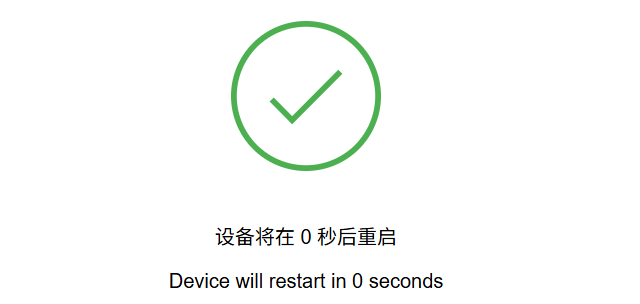
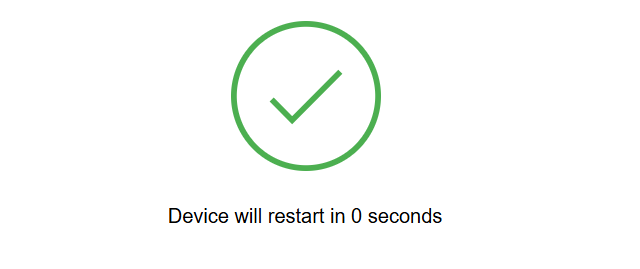
内容修改

diff --git a/source/docs/3_Creative_Builds.md b/source/docs/3_Creative_Builds.md
@@ -15,18 +15,11 @@ This Color Scanner features both color sensing and visual display capabilities. 
 
 ### 3.1.3 Assembly Guide
 
-<iframe
-  src="../_static/pdf/01-smart-light-assembly-guide.pdf#view=FitH"
-  title="Assembly Guide PDF"
-  width="100%"
-  height="850"
-  style="border: 1px solid #ddd;"
-  loading="lazy">
-</iframe>
+
 
 ### 3.1.4 Mode Switching
 
-This build requires the **offline vision function**. Skip this step and proceed directly to the wiring guide if the offline vision mode is already active. Otherwise, refer to the [4.5.1 Firmware Update]() section in Chapter 4 to re-flash the corresponding firmware.
+This build requires the **offline vision function**. Skip this step and proceed directly to the wiring guide if the offline vision mode is already active. Otherwise, refer to the [4.5.1 Firmware Update](https://wiki.hiwonder.com/projects/DaDablock-AI/en/starter-kit/docs/4_Software_and_Hardware_Guide.html#id17) section in Chapter 4 to re-flash the corresponding firmware.
 
 ### 3.1.5 Wiring Guide
 
@@ -94,7 +87,7 @@ This smart desk lamp features voice-controlled dimming capabilities. Vocal comma
 
 ### 3.2.4 Mode Switching
 
-This build requires the **offline voice interaction function**. Skip this step and proceed directly to the wiring guide if the offline voice interaction mode is already active. Otherwise, refer to the [4.5.1 Firmware Update]() section in Chapter 4 to re-flash the corresponding firmware.
+This build requires the **offline voice interaction function**. Skip this step and proceed directly to the wiring guide if the offline voice interaction mode is already active. Otherwise, refer to the [4.5.1 Firmware Update](https://wiki.hiwonder.com/projects/DaDablock-AI/en/starter-kit/docs/4_Software_and_Hardware_Guide.html#id17) section in Chapter 4 to re-flash the corresponding firmware.
 
 ### 3.2.5 Wiring Guide
 
@@ -162,7 +155,7 @@ This smart clock features countdown alert capabilities. After configuring the du
 
 ### 3.3.4 Mode Switching
 
-This build requires the online large model. Skip this step and proceed directly to the wiring guide if the **online large model mode** is already active. Otherwise, refer to the [4.5.1 Firmware Update]() section in Chapter 4 to re-flash the corresponding firmware.
+This build requires the online large model. Skip this step and proceed directly to the wiring guide if the **online large model mode** is already active. Otherwise, refer to the [4.5.1 Firmware Update](https://wiki.hiwonder.com/projects/DaDablock-AI/en/starter-kit/docs/4_Software_and_Hardware_Guide.html#id17) section in Chapter 4 to re-flash the corresponding firmware.
 
 ### 3.3.5 Wiring Guide
 
@@ -267,7 +260,7 @@ This adjustable mixer features voice-controlled speed regulation. Vocal commands
 
 ### 3.4.4 Mode Switching
 
-This build requires the **online large model**. Skip this step and proceed directly to the wiring guide if the online large model mode is already active. Otherwise, refer to the [4.5.1 Firmware Update]() section in Chapter 4 to re-flash the corresponding firmware.
+This build requires the **online large model**. Skip this step and proceed directly to the wiring guide if the online large model mode is already active. Otherwise, refer to the [4.5.1 Firmware Update](https://wiki.hiwonder.com/projects/DaDablock-AI/en/starter-kit/docs/4_Software_and_Hardware_Guide.html#id17) section in Chapter 4 to re-flash the corresponding firmware.
 
 ### 3.4.5 Wiring Guide
 
@@ -281,7 +274,7 @@ The connections are shown in the diagram:
 
 > [!NOTE]
 >
-> **For the initial setup of the 270° block servo, first remove the gear on the servo along with the attached building blocks, and upload the following 270° servo reset program to the ESP32. Next, reattach the removed building blocks, upload the program for this section to the ESP32, and wait for the 270° block servo to rotate to the initial position of 135 degrees. This step can be skipped if the servo reset program has been executed previously.**
+> **For the initial setup of the 270° block servo, first remove the gear on the servo along with the attached building blocks, and upload the following 270° servo reset program to the ESP32. Next, reattach the removed building blocks, upload the program for this section to the ESP32, and wait for the 270° block servo to rotate to the initial position of 135°. This step can be skipped if the servo reset program has been executed previously.**
 
 <div align="center"><img src="../_static/media/chapter_3/section_4/media/image0.png"  class="common_img" style="width:700px;" ></div>
 
@@ -373,7 +366,7 @@ This interactive smart windmill responds directly to vocal cues. Simple voice co
 
 ### 3.5.4 Mode Switching
 
-This build requires the **offline voice interaction function**. Skip this step and proceed directly to the wiring guide if the offline voice interaction mode is already active. Otherwise, refer to the [4.5.1 Firmware Update]() section in Chapter 4 to re-flash the corresponding firmware.
+This build requires the **offline voice interaction function**. Skip this step and proceed directly to the wiring guide if the offline voice interaction mode is already active. Otherwise, refer to the [4.5.1 Firmware Update](https://wiki.hiwonder.com/projects/DaDablock-AI/en/starter-kit/docs/4_Software_and_Hardware_Guide.html#id17) section in Chapter 4 to re-flash the corresponding firmware.
 
 ### 3.5.5 Wiring Guide
 
@@ -444,7 +437,7 @@ This interactive greeting robot features face recognition capabilities designed 
 
 ### 3.6.4 Mode Switching
 
-This build requires the **offline vision function**. Skip this step and proceed directly to the wiring guide if the offline vision mode is already active. Otherwise, refer to the [4.5.1 Firmware Update]() section in Chapter 4 to re-flash the corresponding firmware.
+This build requires the **offline vision function**. Skip this step and proceed directly to the wiring guide if the offline vision mode is already active. Otherwise, refer to the [4.5.1 Firmware Update](https://wiki.hiwonder.com/projects/DaDablock-AI/en/starter-kit/docs/4_Software_and_Hardware_Guide.html#id17) section in Chapter 4 to re-flash the corresponding firmware.
 
 ### 3.6.5 Wiring Guide
 
@@ -530,7 +523,7 @@ This automated barrier gate features facial recognition capabilities for smart a
 
 ### 3.7.4 Mode Switching
 
-This build requires the **offline vision function**. Skip this step and proceed directly to the wiring guide if the offline vision mode is already active. Otherwise, refer to the [4.5.1 Firmware Update]() section in Chapter 4 to re-flash the corresponding firmware.
+This build requires the **offline vision function**. Skip this step and proceed directly to the wiring guide if the offline vision mode is already active. Otherwise, refer to the [4.5.1 Firmware Update](https://wiki.hiwonder.com/projects/DaDablock-AI/en/starter-kit/docs/4_Software_and_Hardware_Guide.html#id17) section in Chapter 4 to re-flash the corresponding firmware.
 
 ### 3.7.5 Wiring Guide
 
@@ -610,7 +603,7 @@ This smart Beckoning cat is designed to wave and welcome guests. Upon facial det
 
 ### 3.8.4 Mode Switching
 
-This build requires the **offline vision function**. Skip this step and proceed directly to the wiring guide if the offline vision mode is already active. Otherwise, refer to the [4.5.1 Firmware Update]() section in Chapter 4 to re-flash the corresponding firmware.
+This build requires the **offline vision function**. Skip this step and proceed directly to the wiring guide if the offline vision mode is already active. Otherwise, refer to the [4.5.1 Firmware Update](https://wiki.hiwonder.com/projects/DaDablock-AI/en/starter-kit/docs/4_Software_and_Hardware_Guide.html#id17) section in Chapter 4 to re-flash the corresponding firmware.
 
 ### 3.8.5 Wiring Guide
 
@@ -692,7 +685,7 @@ This simulated pumpjack features voice-controlled start and stop capabilities. I
 
 ### 3.9.4 Mode Switching
 
-This build requires the **offline voice interaction function**. Skip this step and proceed directly to the wiring guide if the offline voice interaction mode is already active. Otherwise, refer to the [4.5.1 Firmware Update]() section in Chapter 4 to re-flash the corresponding firmware.
+This build requires the **offline voice interaction function**. Skip this step and proceed directly to the wiring guide if the offline voice interaction mode is already active. Otherwise, refer to the [4.5.1 Firmware Update](https://wiki.hiwonder.com/projects/DaDablock-AI/en/starter-kit/docs/4_Software_and_Hardware_Guide.html#id17) section in Chapter 4 to re-flash the corresponding firmware.
 
 ### 3.9.5 Wiring Guide
 
@@ -763,7 +756,7 @@ This smart cradle features voice-controlled rocking capabilities. Issuing voice 
 
 ### 3.10.4 Mode Switching
 
-This build requires the **offline voice interaction function**. Skip this step and proceed directly to the wiring guide if the offline voice interaction mode is already active. Otherwise, refer to the [4.5.1 Firmware Update]() section in Chapter 4 to re-flash the corresponding firmware.
+This build requires the **offline voice interaction function**. Skip this step and proceed directly to the wiring guide if the offline voice interaction mode is already active. Otherwise, refer to the [4.5.1 Firmware Update](https://wiki.hiwonder.com/projects/DaDablock-AI/en/starter-kit/docs/4_Software_and_Hardware_Guide.html#id17) section in Chapter 4 to re-flash the corresponding firmware.
 
 ### 3.10.5 Wiring Guide
 
@@ -834,7 +827,7 @@ This catapult features voice-controlled launch capabilities. Issuing voice comma
 
 ### 3.11.4 Mode Switching
 
-This build requires the online large model. Skip this step and proceed directly to the wiring guide if the online large model mode is already active. Otherwise, refer to the [4.5.1 Firmware Update]() section in Chapter 4 to re-flash the corresponding firmware.
+This build requires the online large model. Skip this step and proceed directly to the wiring guide if the online large model mode is already active. Otherwise, refer to the [4.5.1 Firmware Update](https://wiki.hiwonder.com/projects/DaDablock-AI/en/starter-kit/docs/4_Software_and_Hardware_Guide.html#id17) section in Chapter 4 to re-flash the corresponding firmware.
 
 ### 3.11.5 Wiring Guide
 
@@ -938,7 +931,7 @@ This miniature swing features voice-controlled swinging capabilities. Issuing vo
 
 ### 3.12.4 Mode Switching
 
-This build requires the **offline voice interaction function**. Skip this step and proceed directly to the wiring guide if the offline voice interaction mode is already active. Otherwise, refer to the [4.5.1 Firmware Update]() section in Chapter 4 to re-flash the corresponding firmware.
+This build requires the **offline voice interaction function**. Skip this step and proceed directly to the wiring guide if the offline voice interaction mode is already active. Otherwise, refer to the [4.5.1 Firmware Update](https://wiki.hiwonder.com/projects/DaDablock-AI/en/starter-kit/docs/4_Software_and_Hardware_Guide.html#id17) section in Chapter 4 to re-flash the corresponding firmware.
 
 ### 3.12.5 Wiring Guide
 
@@ -1019,7 +1012,7 @@ This robotic drummer features voice-controlled rhythm capabilities. Issuing voic
 
 ### 3.13.4 Mode Switching
 
-This build requires the **online large model**. Skip this step and proceed directly to the wiring guide if the online large model mode is already active. Otherwise, refer to the [4.5.1 Firmware Update]() section in Chapter 4 to re-flash the corresponding firmware.
+This build requires the **online large model**. Skip this step and proceed directly to the wiring guide if the online large model mode is already active. Otherwise, refer to the [4.5.1 Firmware Update](https://wiki.hiwonder.com/projects/DaDablock-AI/en/starter-kit/docs/4_Software_and_Hardware_Guide.html#id17) section in Chapter 4 to re-flash the corresponding firmware.
 
 ### 3.13.5 Wiring Guide
 
@@ -1115,7 +1108,7 @@ This sawing bot features voice-controlled interactive capabilities. Issuing voic
 
 ### 3.14.4 Mode Switching
 
-This build requires the **offline voice interaction function**. Skip this step and proceed directly to the wiring guide if the offline voice interaction mode is already active. Otherwise, refer to the [4.5.1 Firmware Update]() section in Chapter 4 to re-flash the corresponding firmware.
+This build requires the **offline voice interaction function**. Skip this step and proceed directly to the wiring guide if the offline voice interaction mode is already active. Otherwise, refer to the [4.5.1 Firmware Update](https://wiki.hiwonder.com/projects/DaDablock-AI/en/starter-kit/docs/4_Software_and_Hardware_Guide.html#id17) section in Chapter 4 to re-flash the corresponding firmware.
 
 ### 3.14.5 Wiring Guide
 
@@ -1194,7 +1187,7 @@ This exercise bike features voice-controlled start capabilities. Issuing voice c
 
 ### 3.15.4 Mode Switching
 
-This build requires the online large model. Skip this step and proceed directly to the wiring guide if the online large model mode is already active. Otherwise, refer to the [4.5.1 Firmware Update]() section in Chapter 4 to re-flash the corresponding firmware.
+This build requires the online large model. Skip this step and proceed directly to the wiring guide if the online large model mode is already active. Otherwise, refer to the [4.5.1 Firmware Update](https://wiki.hiwonder.com/projects/DaDablock-AI/en/starter-kit/docs/4_Software_and_Hardware_Guide.html#id17) section in Chapter 4 to re-flash the corresponding firmware.
 
 ### 3.15.5 Wiring Guide
 
@@ -1288,7 +1281,7 @@ This expression-changing device features voice-controlled expression-switching c
 
 ### 3.16.4 Mode Switching
 
-This build requires the **offline voice interaction function**. Skip this step and proceed directly to the wiring guide if the offline voice interaction mode is already active. Otherwise, refer to the [4.5.1 Firmware Update]() section in Chapter 4 to re-flash the corresponding firmware.
+This build requires the **offline voice interaction function**. Skip this step and proceed directly to the wiring guide if the offline voice interaction mode is already active. Otherwise, refer to the [4.5.1 Firmware Update](https://wiki.hiwonder.com/projects/DaDablock-AI/en/starter-kit/docs/4_Software_and_Hardware_Guide.html#id17) section in Chapter 4 to re-flash the corresponding firmware.
 
 ### 3.16.5 Wiring Guide
 

diff --git a/source/docs/4_Software_and_Hardware_Guide.md b/source/docs/4_Software_and_Hardware_Guide.md
@@ -1,7 +1,5 @@
 # 4. Software and Hardware Guide
 
-[TOC]
-
 ## 4.1 ESP32 Controller
 
 ### 4.1.1 Introduction to the ESP32 Controller
@@ -306,7 +304,7 @@ Once the wake word is recognized, the buzzer sounds once, and then interaction c
 
 > [!NOTE]
 >
-> **Connecting the module to the network is required in three situations: 1. During initial use or after flashing the firmware, when no Wi-Fi credentials are saved in memory. 2. When no hotspot in the environment matches the saved Wi-Fi connection information, as described in [2.1.2 Module Connection](). 3. When manually entering network configuration mode by long-pressing the right button B.**
+> **Connecting the module to the network is required in three situations: 1. During initial use or after flashing the firmware, when no Wi-Fi credentials are saved in memory. 2. When no hotspot in the environment matches the saved Wi-Fi connection information, as described in [2.1.2 Module Network Configuration](https://wiki.hiwonder.com/projects/DaDablock-AI/en/starter-kit/docs/2_Quick_Start.html#module-network-configuration). 3. When manually entering network configuration mode by long-pressing the right button B.**
 
 - **<font size="4px">Manually Enter Network Configuration Mode</font>**
 
@@ -332,11 +330,11 @@ Once the wake word is recognized, the buzzer sounds once, and then interaction c
 
 > [!NOTE]
 >
-> **Two methods are available for device binding: 1. Quick binding, which is described in [2.1.3 Device Binding](). 2. Binding by creating a new AI agent.**
+> **Two methods are available for device binding: 1. Quick binding, which is described in [2.1.3 Device Binding](https://wiki.hiwonder.com/projects/DaDablock-AI/en/starter-kit/docs/2_Quick_Start.html#device-binding). 2. Binding by creating a new AI agent.**
 
 - **<font size="4px">Bind by Creating a New Agent</font>**
 
-1. Open a browser and go to `hiwonder.ai`, or click the [WonderHUB AI Chatbot]() link directly. Log in to the WonderHUB AI platform account. If no account exists, refer to [2.1.3 Device Binding]() to register.
+1. Open a browser and go to `hiwonder.ai`, or click the [WonderHUB AI Chatbot](https://hiwonder.ai/) link directly. Log in to the WonderHUB AI platform account. If no account exists, refer to [2.1.3 Device Binding](https://wiki.hiwonder.com/projects/DaDablock-AI/en/starter-kit/docs/2_Quick_Start.html#device-binding) to register.
 
 2. Click **Agents** on the left menu to switch to the agents interface.
 
@@ -472,7 +470,7 @@ Speak the command **Confirm delete device** to unbind the device.
 
 2. Wake up the module and enter Chat Mode by speaking the wake word **Hello Hiwonder** or short-pressing the right button, Button B. The buzzer will beep, the screen will switch to the **chat interface**, and the module will start listening.
 
-3. If entering Chat Mode by **speaking the wake word**, the module automatically sends "Hello" to start the conversation once the wake word is recognized. The large language model will generate a greeting, display it in the chat interface, and broadcast it. The greeting can be interrupted to skip it quickly, as detailed in [**4.4.8 Free Chat**](). The module only starts listening for speech after the greeting finishes or is interrupted.
+3. If entering Chat Mode by **speaking the wake word**, the module automatically sends "Hello" to start the conversation once the wake word is recognized. The large language model will generate a greeting, display it in the chat interface, and broadcast it. The greeting can be interrupted to skip it quickly, as detailed in [4.4.8 Free Chat](#anther4.4.8). The module only starts listening for speech after the greeting finishes or is interrupted.
 
 <div align="center"><img src="../_static/media/chapter_4/section_4/media/subsection_4/image2.png" width="300"></div>
 
@@ -480,7 +478,7 @@ Speak the command **Confirm delete device** to unbind the device.
 
 <div align="center"><img src="../_static/media/chapter_4/section_4/media/subsection_4/image3.png" width="300"></div>
 
-5. During the interaction, the chat interface can be hidden, keeping the expression interface displayed continuously. For details, refer to the instructions in [**4.4.5 Expression Mode**]().
+5. During the interaction, the chat interface can be hidden, keeping the expression interface displayed continuously. For details, refer to the instructions in [4.4.5 Expression Mode](#anther4.4.5).
 
 <p id ="anther4.4.5"></p>
 
@@ -566,7 +564,7 @@ Speak the command **Confirm delete device** to unbind the device.
 
 2. In Camera Mode, the module continuously captures and displays real-time images. The module remains in this mode until another action is taken.
 
-3. In Camera Mode, tap anywhere on the screen to trigger the scene understanding function, as detailed in [**4.4.9 Scene Understanding**]().
+3. In Camera Mode, tap anywhere on the screen to trigger the scene understanding function, as detailed in [4.4.9 Scene Understanding](#anther4.4.9).
 
 <p id ="anther4.4.8"></p>
 
@@ -596,7 +594,7 @@ The module features built-in functions that can be triggered by voice commands d
 | 2 | News broadcast | 5 | Music playback |
 | 3 | Dressing advice |  |  |
 
-For details on how to call the corresponding special functions, refer to [2.1.4 Free Chat]().
+For details on how to call the corresponding special functions, refer to [2.1.4 Smart Chat](https://wiki.hiwonder.com/projects/DaDablock-AI/en/starter-kit/docs/2_Quick_Start.html#smart-chat).
 
 <p id ="anther4.4.9"></p>
 
@@ -646,7 +644,7 @@ Command references are listed below: 1. **Describe what is in front of you**, or
 
 <div align="center"><img src="../_static/media/chapter_4/section_4/media/subsection_10/sub_1/image2.png" width="400"></div>
 
-4. Once the tool opens, click **...** to select the firmware bin file to flash. Choose **WonderLLM_S3_V1.9.0_EN.bin** from the folder **[Appendix/WonderLLM Firmware File/Online]()**.
+4. Once the tool opens, click **...** to select the firmware bin file to flash. Choose **WonderLLM_S3_V1.9.0_EN.bin** from the folder **[Appendix/2. WonderLLM Related Files/WonderLLM Firmware File/Online](https://drive.google.com/drive/folders/1GhlY747Im35TiNxDImEB4xVlcXIDP1lX?usp=sharing)**.
 
 <div align="center"><img src="../_static/media/chapter_4/section_4/media/subsection_10/sub_1/image3.png" width="500"></div>
 
@@ -678,7 +676,7 @@ Command references are listed below: 1. **Describe what is in front of you**, or
 
 <div align="center"><img src="../_static/media/chapter_4/section_4/media/subsection_10/sub_2/image.png" width="400"></div>
 
-2. Open the file **PACK_UPDATE_TOOL.exe** in the folder **[Appendix/WonderLLM Flashing Tool/CI1302 Firmware Flashing Tool]()**.
+2. Open the file **PACK_UPDATE_TOOL.exe** in the folder **[Appendix/2. WonderLLM Related Files/WonderLLM Flashing Tool/CI1302 Firmware Flashing Tool](https://drive.google.com/drive/folders/1J_IZBq0eLWigoezojcnE9XaKbCIOjJLI?usp=sharing)**.
 
 <div align="center"><img src="../_static/media/chapter_4/section_4/media/subsection_10/sub_2/image1.png" width="500"></div>
 
@@ -686,7 +684,7 @@ Command references are listed below: 1. **Describe what is in front of you**, or
 
 <div align="center"><img src="../_static/media/chapter_4/section_4/media/subsection_10/sub_2/image2.png" width="500"></div>
 
-4. Click **Select firmware** and choose **CI1302-EN.bin** from the folder **[Appendix/WonderLLM Firmware File/Online]()**.
+4. Click **Select firmware** and choose **CI1302-EN.bin** from the folder **[Appendix/2. WonderLLM Related Files/WonderLLM Firmware File/Online](https://drive.google.com/drive/folders/1GhlY747Im35TiNxDImEB4xVlcXIDP1lX?usp=sharing)**.
 
 <div align="center"><img src="../_static/media/chapter_4/section_4/media/subsection_10/sub_2/image3.png" width="800"></div>
 
@@ -716,7 +714,7 @@ Command references are listed below: 1. **Describe what is in front of you**, or
 
 <div align="center"><img src="../_static/media/chapter_4/section_5/media/subsection_1/sub_1/image.png" width="400"></div>
 
-2. Open the file **flash_download_tool_3.9.7.exe** in the folder **[Appendix/WonderLLM Flashing Tool/ESP32-S3 Firmware Flashing Tool]()**.
+2. Open the file **flash_download_tool_3.9.7.exe** in the folder **[Appendix/2. WonderLLM Related Files/WonderLLM Flashing Tool/ESP32-S3 Firmware Flashing Tool](https://drive.google.com/drive/folders/1VT4wKRY0sFAQrTcgnuTOps3clNoc88w1?usp=sharing)**.
 
 <div align="center"><img src="../_static/media/chapter_4/section_5/media/subsection_1/sub_1/image1.png" width="500"></div>
 
@@ -724,7 +722,7 @@ Command references are listed below: 1. **Describe what is in front of you**, or
 
 <div align="center"><img src="../_static/media/chapter_4/section_5/media/subsection_1/sub_1/image2.png" width="400"></div>
 
-4. Once the tool opens, click **...** to select the firmware bin file. Choose **WonderLLM_Echo_K12.bin** from the folder **[Appendix/WonderLLM Firmware File/Offline]()**.
+4. Once the tool opens, click **...** to select the firmware bin file. Choose **WonderLLM_Echo_K12.bin** from the folder **[Appendix/2. WonderLLM Related Files/WonderLLM Firmware File/Offline](https://drive.google.com/drive/folders/1aP3l_tDYIrCMCrs51QaVBYc_gvaAIAeg?usp=sharing)**.
 
 <div align="center"><img src="../_static/media/chapter_4/section_5/media/subsection_1/sub_1/image3.png" width="500"></div>
 
@@ -756,7 +754,7 @@ Command references are listed below: 1. **Describe what is in front of you**, or
 
 <div align="center"><img src="../_static/media/chapter_4/section_5/media/subsection_1/sub_2/image.png" width="400"></div>
 
-2. Open the file **PACK_UPDATE_TOOL.exe** in the folder **[Appendix/WonderLLM Flashing Tool/CI1302 Firmware Flashing Tool]()**.
+2. Open the file **PACK_UPDATE_TOOL.exe** in the folder **[Appendix/2. WonderLLM Related Files/WonderLLM Flashing Tool/CI1302 Firmware Flashing Tool](https://drive.google.com/drive/folders/1J_IZBq0eLWigoezojcnE9XaKbCIOjJLI?usp=sharing)**.
 
 <div align="center"><img src="../_static/media/chapter_4/section_5/media/subsection_1/sub_2/image1.png" width="500"></div>
 
@@ -764,7 +762,7 @@ Command references are listed below: 1. **Describe what is in front of you**, or
 
 <div align="center"><img src="../_static/media/chapter_4/section_5/media/subsection_1/sub_2/image2.png" width="500"></div>
 
-4. Click **Select firmware** and choose **CI1302_Echo_K12.bin** from the folder **[Appendix/WonderLLM Firmware File/Offline]()**.
+4. Click **Select firmware** and choose **CI1302_Echo_K12.bin** from the folder **[Appendix/2. WonderLLM Related Files/WonderLLM Firmware File/Offline](https://drive.google.com/drive/folders/1aP3l_tDYIrCMCrs51QaVBYc_gvaAIAeg?usp=sharing)**.
 
 <div align="center"><img src="../_static/media/chapter_4/section_5/media/subsection_1/sub_2/image3.png" width="800"></div>
 

diff --git a/source/docs/2_Quick_Start.md b/source/docs/2_Quick_Start.md
@@ -6,7 +6,7 @@
 
 > [!NOTE]
 >
-> **This section introduces the WonderLLM module for a quick start. Since there are various ways to play with this module, refer to [Section 4.4 WonderLLM Module]() for detailed learning.**
+> **This section introduces the WonderLLM module for a quick start. Since there are various ways to play with this module, refer to [Section 4.4 WonderLLM Module](https://wiki.hiwonder.com/projects/DaDablock-AI/en/starter-kit/docs/4_Software_and_Hardware_Guide.html#wonderllm-module) for detailed learning.**
 
 ### 2.1.1 Powering On the Device
 
@@ -251,7 +251,7 @@ Once the program starts running, the two onboard RGB LEDs of the controller swit
 
 > [!NOTE]
 >
-> **The following starter projects introduce the electronic modules used in this kit for a quick start. For a detailed description of the modules, refer to [Section 4.3 Electronic Module Overview]() for detailed information.**
+> **The following starter projects introduce the electronic modules used in this kit for a quick start. For a detailed description of the modules, refer to [Section 4.3 Electronic Module Overview](https://wiki.hiwonder.com/projects/DaDablock-AI/en/starter-kit/docs/4_Software_and_Hardware_Guide.html#electronic-modules-overview) for detailed information.**
 
 ## 2.5 Starter Project 2: Dual Servos and Dot Matrix Display
 
